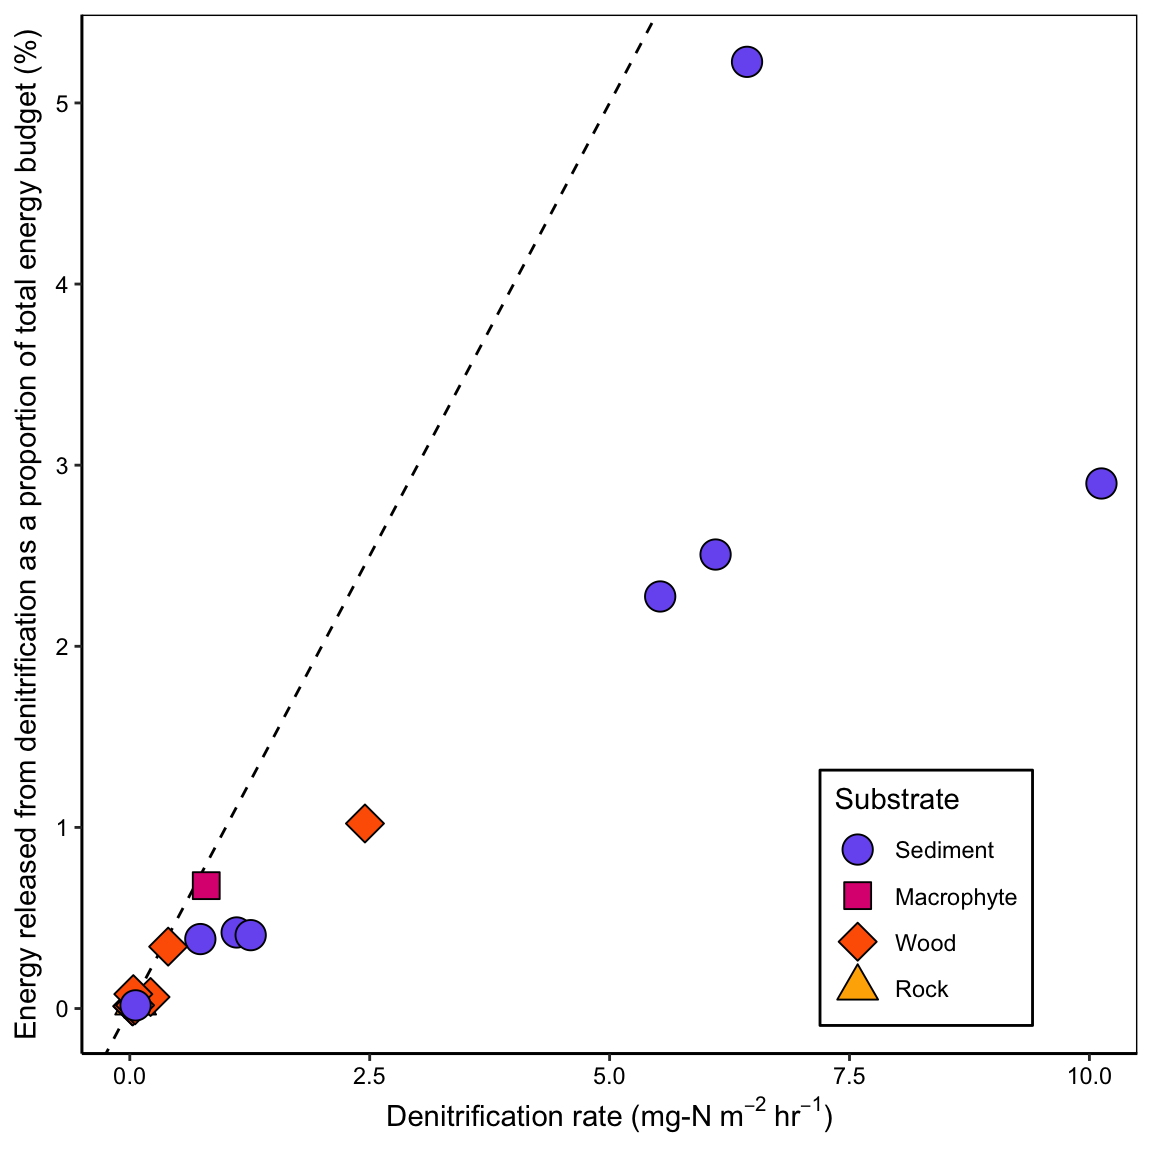
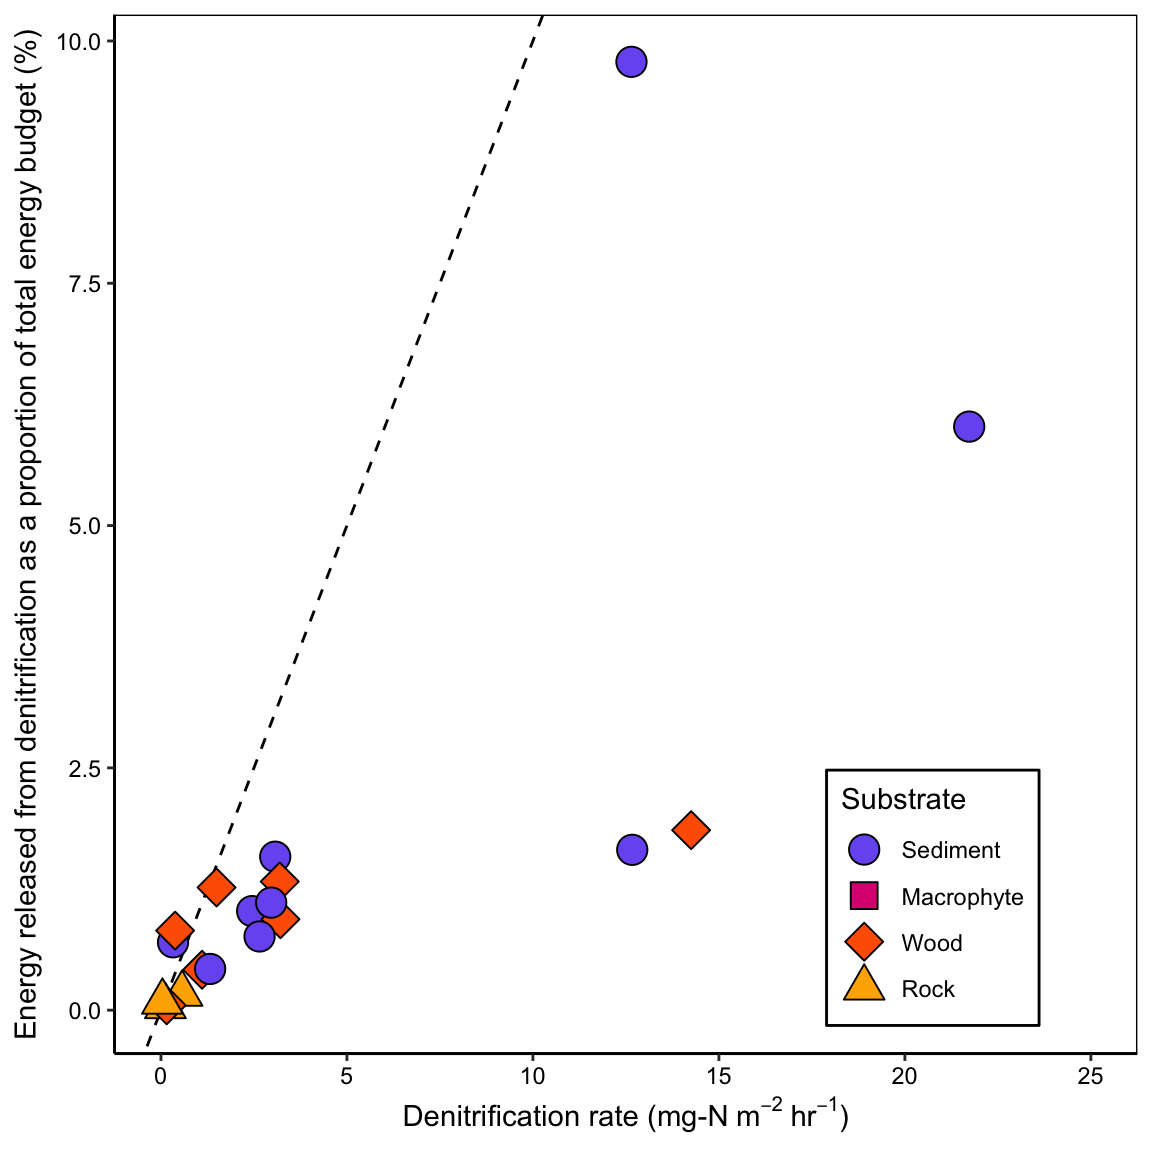
Use amended denitrification rates for calculations, in line with Amy's talk

diff --git a/docs/StreamEnergyBudgets.html b/docs/StreamEnergyBudgets.html
@@ -1478,7 +1478,7 @@ U_{den} = v_{fden} \times C \times 36
 \]</span></p>
 <p>Modeled <strong>metabolism</strong> (gross primary production, ecosystem respiration) for streams in the LINX II project was obtained from Bernot et al. <span class="citation" data-cites="bernot2010">(<a href="#ref-bernot2010" role="doc-biblioref">2010</a>)</span> supplemental information.</p>
 <h3 id="marcarelli-nationwide-denitrification-and-n-fixation-survey">Marcarelli nationwide denitrification and N fixation survey</h3>
-<p>Denitrification was measured on individual stream substrates using <strong>acetylene inhibition</strong> assays.</p>
+<p>Denitrification was measured on individual stream substrates using <strong>amended acetylene inhibition</strong> assays.</p>
 <p>Modeled <strong>metabolism</strong> obtained from StreamPULSE repository, <a href="https://data.streamPULSE.org" class="uri">https://data.streamPULSE.org</a>.</p>
 <h2 id="energy-budget-calculation">Energy budget calculation</h2>
 <p>Process rates (ex. denitrification in mg-N <span class="math inline">\(m^{-2} ~ hr^{-1}\)</span>) were converted to energy production rates (kCal <span class="math inline">\(m^{-2} ~ hr^{-1}\)</span>) using Gibbs free energy (<span class="math inline">\(\Delta G\)</span>) values and molar conversion factors from the balanced chemical reactions of each process <span class="citation" data-cites="stumm_aquatic_1996">(Stumm and Morgan <a href="#ref-stumm_aquatic_1996" role="doc-biblioref">1996</a>)</span>.</p>
@@ -1688,17 +1688,17 @@ Figure 6: Most important predictors for best fit model (MARS) predicting denitri
 </ul>
 <div class="layout-chunk" data-layout="l-body">
 <div class="figure"><span id="fig:CAREERDenitRatevsPercentTotalNRG"></span>
-<img src="StreamEnergyBudgets_files/figure-html5/CAREERDenitRatevsPercentTotalNRG-1.png" alt="Substrates with the highest rates of denitrification may be contributing the least amount to the total energy budget. Dashed line has a slope of 1, representing a denitrification rate proportional to the fraction of total energy released from denitrification. Data is from a subset of 7 streams from the Marcarelli Nationwide Survey (total n = 21)." width="576" />
+<img src="StreamEnergyBudgets_files/figure-html5/CAREERDenitRatevsPercentTotalNRG-1.png" alt="Substrates with the highest rates of denitrification may be contributing the least amount to the total energy budget. Dashed line has a slope of 1, representing a denitrification rate proportional to the fraction of total energy released from denitrification. Energy released from denitrification is based on amended denitrification rates. Data is from a subset of 7 streams from the Marcarelli Nationwide Survey (total n = 21)." width="576" />
 <p class="caption">
-Figure 7: Substrates with the highest rates of denitrification may be contributing the least amount to the total energy budget. Dashed line has a slope of 1, representing a denitrification rate proportional to the fraction of total energy released from denitrification. Data is from a subset of 7 streams from the Marcarelli Nationwide Survey (total n = 21).
+Figure 7: Substrates with the highest rates of denitrification may be contributing the least amount to the total energy budget. Dashed line has a slope of 1, representing a denitrification rate proportional to the fraction of total energy released from denitrification. Energy released from denitrification is based on amended denitrification rates. Data is from a subset of 7 streams from the Marcarelli Nationwide Survey (total n = 21).
 </p>
 </div>
 </div>
 <div class="layout-chunk" data-layout="l-body">
 <div class="figure"><span id="fig:plotCAREERRates"></span>
-<img src="StreamEnergyBudgets_files/figure-html5/plotCAREERRates-1.png" alt="Unamended denitrification rates (n = 71) measured on multiple substrates (macrophyte, rock, sediment, wood) present at each study site as part of the Marcarelli Nationwide Survey. Boxplot error bars extend from the first quartile minus 1.5 times the interquartile range to the third quartile plus 1.5 times the interquartile range, middle bar denotes median." width="576" />
+<img src="StreamEnergyBudgets_files/figure-html5/plotCAREERRates-1.png" alt="Amended denitrification rates (n = 71) measured on multiple substrates (macrophyte, rock, sediment, wood) present at each study site as part of the Marcarelli Nationwide Survey. Boxplot error bars extend from the first quartile minus 1.5 times the interquartile range to the third quartile plus 1.5 times the interquartile range, middle bar denotes median." width="576" />
 <p class="caption">
-Figure 8: Unamended denitrification rates (n = 71) measured on multiple substrates (macrophyte, rock, sediment, wood) present at each study site as part of the Marcarelli Nationwide Survey. Boxplot error bars extend from the first quartile minus 1.5 times the interquartile range to the third quartile plus 1.5 times the interquartile range, middle bar denotes median.
+Figure 8: Amended denitrification rates (n = 71) measured on multiple substrates (macrophyte, rock, sediment, wood) present at each study site as part of the Marcarelli Nationwide Survey. Boxplot error bars extend from the first quartile minus 1.5 times the interquartile range to the third quartile plus 1.5 times the interquartile range, middle bar denotes median.
 </p>
 </div>
 </div>
